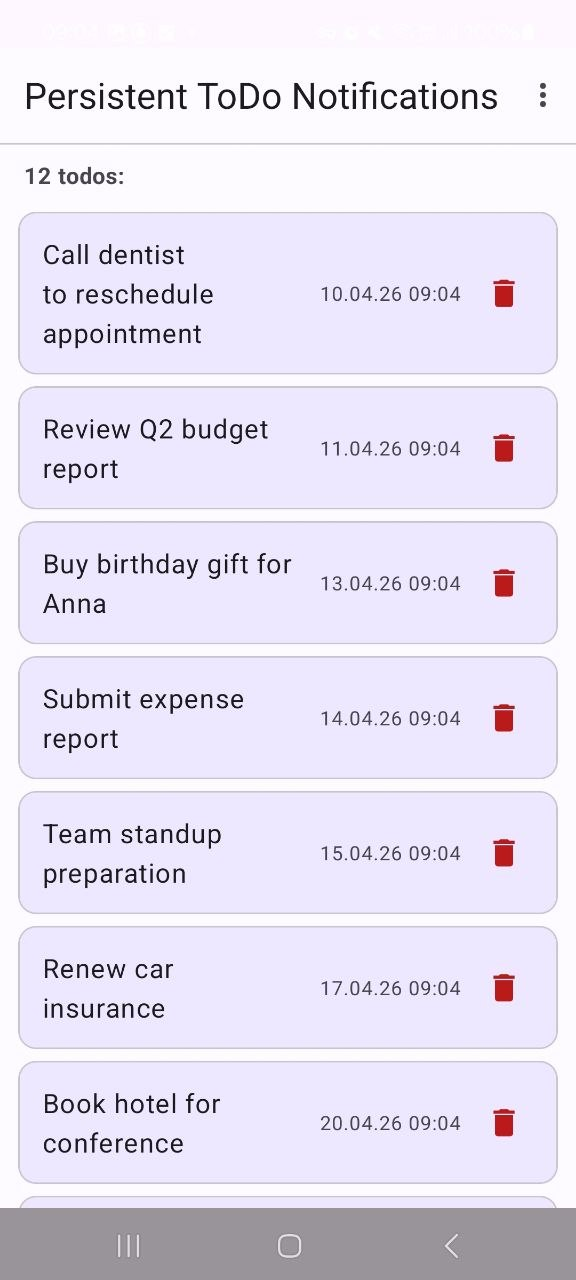
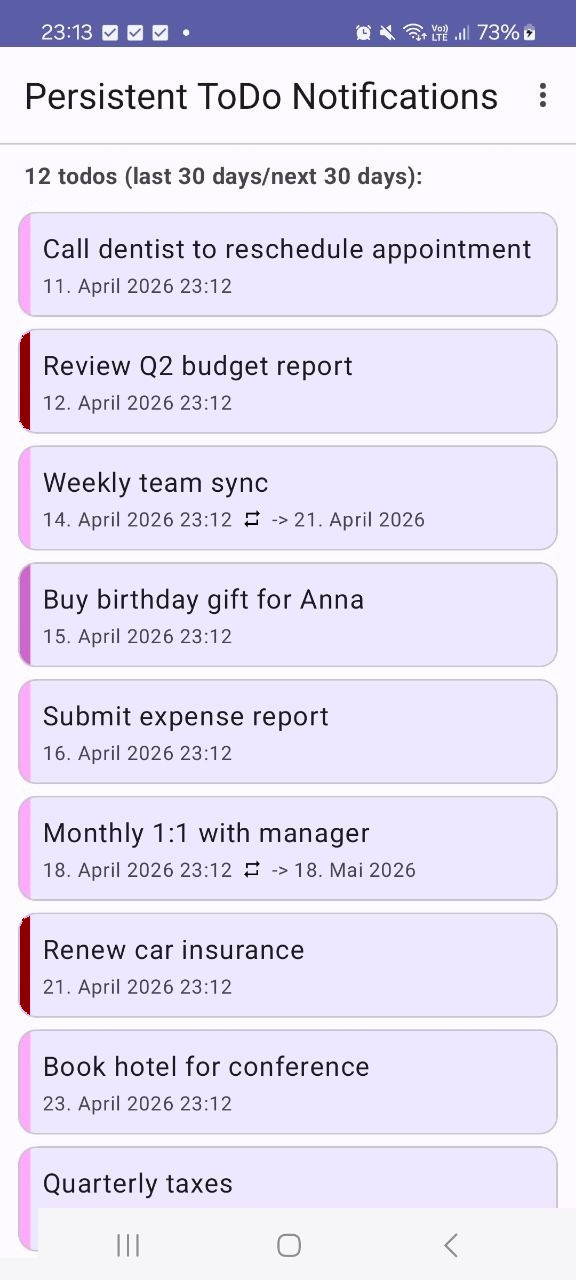
updated readme, screenshots and changelog

diff --git a/RELEASE_NOTES.md b/RELEASE_NOTES.md
@@ -33,3 +33,52 @@
 - Recurring icon is now solid black for better visibility
 - Calendar color accent bar widened to 8dp
 - Demo mode now includes recurring event examples (weekly, monthly, quarterly, yearly)
+
+
+
+## v0.10.0 (since v0.9.0)
+### New Features
+
+**Snooze**
+Tap a notification to open the action dialog and choose to snooze a todo for 1 day, 3 days, 1 week, or 1 month. The notification is hidden until the snooze expires; an exact alarm ensures it reappears automatically.
+
+**Recurring event support**
+Recurring calendar events are detected automatically and shown with a recurring icon. Completing a recurring todo advances it to the next occurrence instead of deleting it — the "Mark as Done" button shows the date of the next recurrence.
+
+**Notification tap → action dialog**
+Tapping a notification now opens an action dialog with three choices: **Mark as Done**, **Snooze**, and **Open in Calendar**. This replaces the previous behaviour of opening the calendar app directly.
+
+**Multiple calendars**
+You can now add or remove any number of device calendars as todo sources (Settings → Calendar → **+ Add**). Existing single-calendar configurations are migrated automatically.
+
+### Improvements
+
+- **Flexible date-range filters**: the fixed "±1 week" / "±1 month" toggles in Settings have been replaced with **Days before today** and **Days after today** sliders (0–365 days, default: 30).
+- Todo list is re-sorted by date after recurring event instance times are resolved.
+- Recurring events correctly respect the date-range filter after their instance date is updated.
+
+### Bug Fixes
+
+- Fixed `handledUntil` timestamp using end-of-day normalisation so a recurring event is not shown again on the same day it was marked as done.
+- Fixed "Mark as Done" label showing the current occurrence instead of the *next* one for recurring events.
+
+
+
+## v0.9.0
+
+Initial release.
+ 
+## Features
+ 
+- Reads todos from a DAVx5-synced Android calendar (calendar name configurable, default: `ToDo`)
+- One persistent notification per todo — automatically restored within ~3 seconds if dismissed
+- Tap a notification to open the event in Business Calendar 2 (falls back to system calendar)
+- Delete a todo directly from the notification action button or from the app's list view
+- Filters: hide old todos (<2026), or narrow to events within ±1 week or ±1 month
+- Notifications update automatically when the calendar changes
+- Survives device reboot
+ 
+## Requirements
+ 
+- Android 8.0+ (API 26+)
+- DAVx5 with a calendar named **ToDo** synced to the device

diff --git a/README.md b/README.md
@@ -25,9 +25,9 @@ An Android app that reads events from a DAVx5-synced **"ToDo" calendar** and dis
 
 ## Screenshots
 
-| App list view | Settings | Notifications (collapsed) | Notifications (expanded) |
-|:---:|:---:|:---:|:---:|
-| ![App list](screenshots/main%20screen.jpg) | ![Settings](screenshots/settings.jpg) | ![Collapsed](screenshots/collapsed%20notifications.jpg) | ![Expanded](screenshots/expanded%20notifications.jpg) |
+| App list view | Notifications (collapsed) | Notifications (expanded) | Acttion Dialog | Settings |
+|:---:|:---:|:---:|:---:|:---:|
+| ![App list](screenshots/main%20screen.jpg) |  ![Collapsed](screenshots/collapsed%20notifications.jpg) | ![Expanded](screenshots/expanded%20notifications.jpg) | ![Action Dialog](screenshots/action%20dialog.jpg) | ![Settings](screenshots/settings.jpg) |
 
 ## How notification persistence works
 
